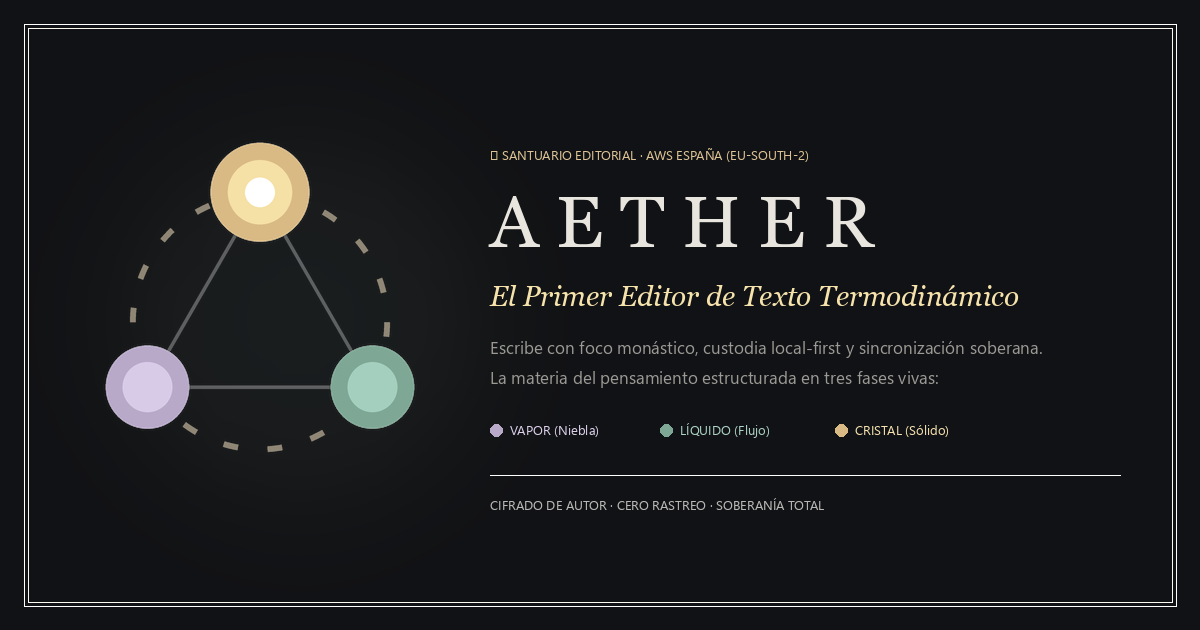
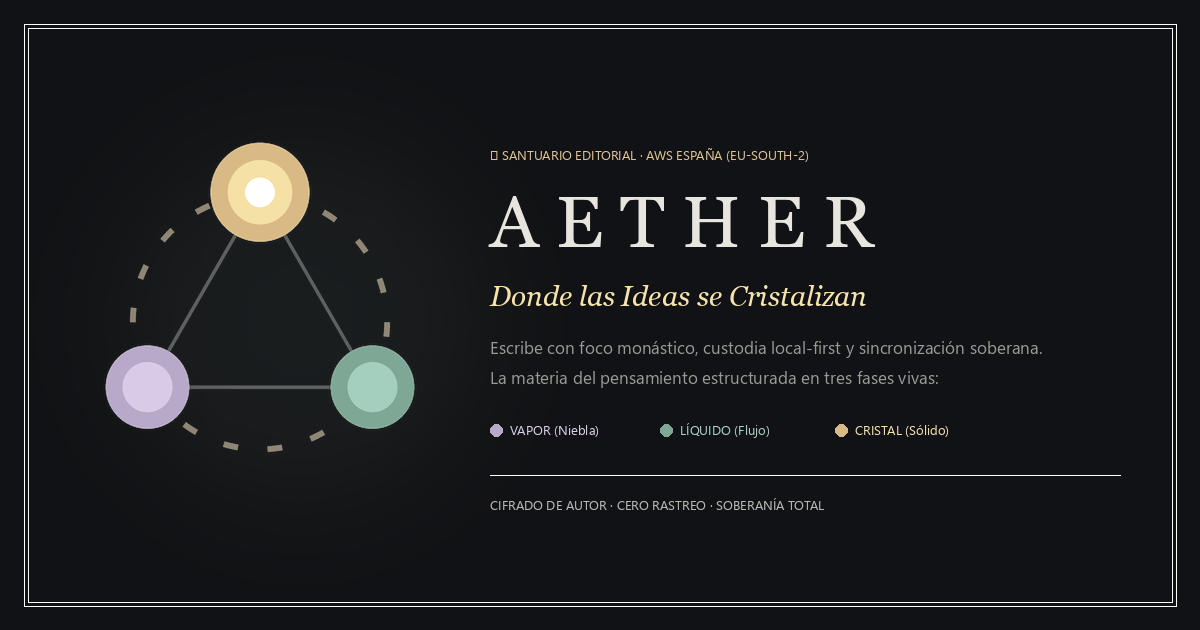
feat(seo): update title and branding to 'Aether — Donde las Ideas se Cristalizan'

Changed region(s): [[0.4008, 0.4524, 0.8633, 0.4825]]

diff --git a/index.html b/index.html
@@ -3,7 +3,7 @@
 <head>
   <meta charset="UTF-8">
   <meta name="viewport" content="width=device-width, initial-scale=1.0">
-  <title>Aether — El Primer Editor de Texto</title>
+  <title>Aether — Donde las Ideas se Cristalizan</title>
   
   <!-- Identidad de Marca y Favicons (Suite Órbita Trinitaria) -->
   <link rel="icon" type="image/svg+xml" href="/favicon.svg">
@@ -15,14 +15,14 @@
   <meta name="theme-color" content="#111215">
 
   <!-- SEO y Metadatos de Autoría Soberana -->
-  <meta name="description" content="Aether — El primer editor de texto termodinámico y soberano. Escribe con foco monástico, custodia local-first y sincronización cifrada en AWS España.">
+  <meta name="description" content="Aether — Donde las ideas se cristalizan. Escribe con foco monástico, custodia local-first y sincronización cifrada en AWS España.">
   <meta name="author" content="Aether Sanctuary">
 
   <!-- Open Graph / Meta / WhatsApp / LinkedIn / Telegram / Discord -->
   <meta property="og:type" content="website">
   <meta property="og:site_name" content="Aether">
-  <meta property="og:title" content="Aether — El Primer Editor de Texto Termodinámico">
-  <meta property="og:description" content="Escribe con foco monástico y custodia local-first. Tres estados de la materia cognitiva: Vapor, Líquido y Cristal.">
+  <meta property="og:title" content="Aether — Donde las Ideas se Cristalizan">
+  <meta property="og:description" content="Escribe con foco monástico, custodia local-first y sincronización soberana. Tres estados de la materia cognitiva: Vapor, Líquido y Cristal.">
   <meta property="og:image" content="https://d1creuco3vvhk7.cloudfront.net/og-image.png">
   <meta property="og:image:width" content="1200">
   <meta property="og:image:height" content="630">
@@ -30,8 +30,8 @@
 
   <!-- Twitter / X Card -->
   <meta name="twitter:card" content="summary_large_image">
-  <meta name="twitter:title" content="Aether — El Primer Editor de Texto Termodinámico">
-  <meta name="twitter:description" content="Escribe con foco monástico y custodia local-first. Sincronización soberana en AWS España.">
+  <meta name="twitter:title" content="Aether — Donde las Ideas se Cristalizan">
+  <meta name="twitter:description" content="Escribe con foco monástico, custodia local-first y sincronización soberana en AWS España.">
   <meta name="twitter:image" content="https://d1creuco3vvhk7.cloudfront.net/og-image.png">
   
   <!-- Tipografía Monumental del Portal (Preload local) -->

diff --git a/scripts/generate_icons.py b/scripts/generate_icons.py
@@ -205,7 +205,7 @@ def generate_og_image():
     draw.text((x_text, 180), "A E T H E R", font=font_title, fill=COLOR_INK_LIGHT)
 
     # Subtítulo lírico
-    draw.text((x_text, 280), "El Primer Editor de Texto Termodinámico", font=font_subtitle, fill=(*COLOR_GOLD_LIGHT, 240))
+    draw.text((x_text, 280), "Donde las Ideas se Cristalizan", font=font_subtitle, fill=(*COLOR_GOLD_LIGHT, 240))
 
     # Párrafo descriptivo
     desc_line1 = "Escribe con foco monástico, custodia local-first y sincronización soberana."
